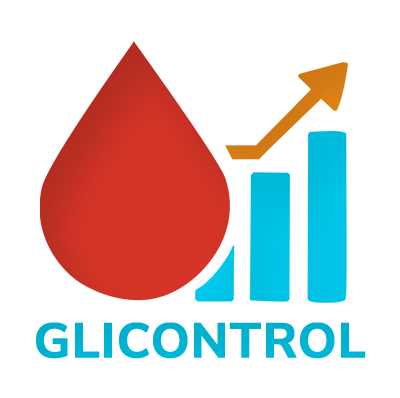
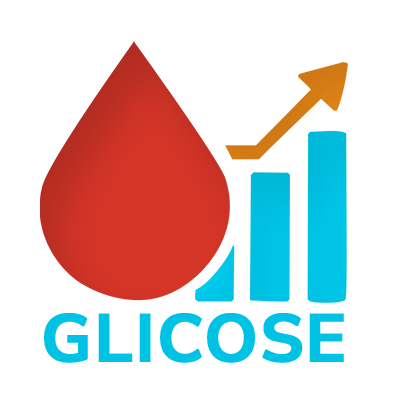
changed app name

Changed region(s): [[0.09, 0.7839, 0.93, 0.9347]]

diff --git a/src/utils/exportToFile.ts b/src/utils/exportToFile.ts
@@ -280,22 +280,7 @@ body {
             </tr>
             </tbody>
       </table>
-      <figure style="text-align: center; margin-top: 1rem">
-      <img
-          src="./chart.png"
-          alt="Gráfico de glicemia ao longo do período"
-          style="
-          max-width: 100%;
-          height: auto;
-          border: 1px solid #ccc;
-            padding: 4px;
-            border-radius: 8px;
-          "
-        />
-        <figcaption style="font-size: 0.75rem; color: #555; margin-top: 0.5rem">
-        Evolução da glicemia durante o período de apuração
-        </figcaption>
-        </figure>
+      
         </section>
 
         <section>

diff --git a/src/app/(auth)/exportToFile.tsx b/src/app/(auth)/exportToFile.tsx
@@ -91,7 +91,6 @@ export default function ExportToFile() {
       start: format(selectedPeriod.startDate, 'dd/MM/yyyy'),
       end: format(selectedPeriod.endDate, 'dd/MM/yyyy'),
     });
-    console.log(loading);
 
     setLoading(false);
   }
